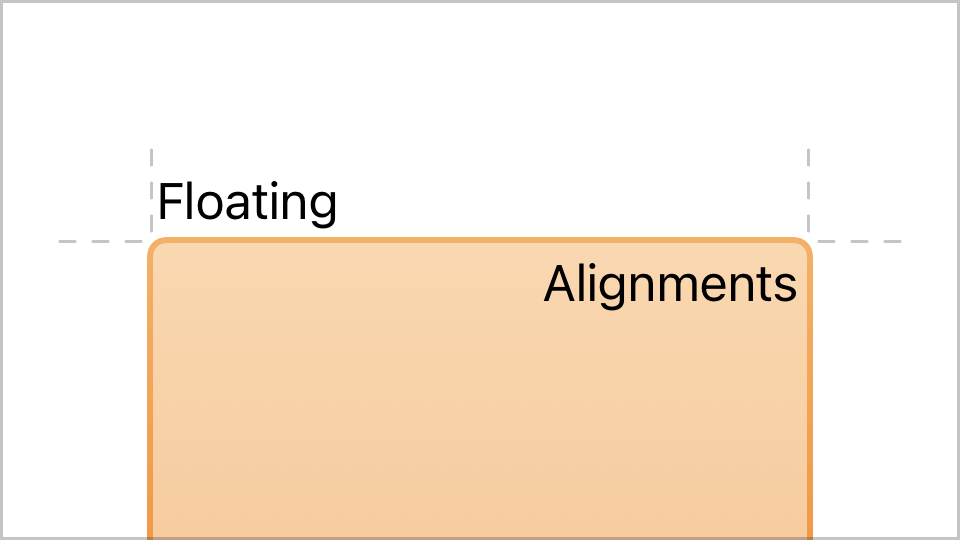
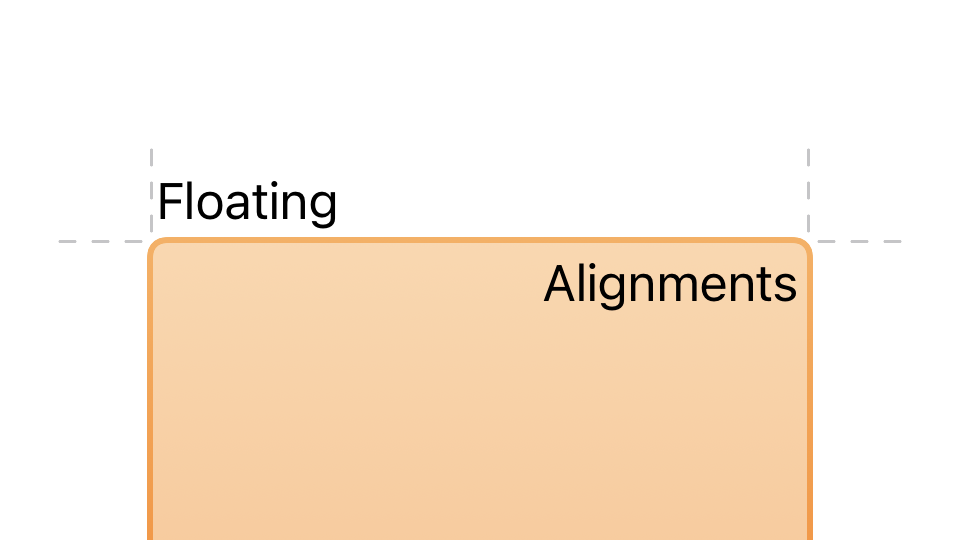
remove borders from debug-overlay-card and floating-alignment-card

Changed region(s): [[0.0, 0.9778, 1.0, 1.0], [0.0, 0.0, 1.0, 0.0296]]

diff --git a/sources/illustrations/FloatingAlignment+Illustrations.swift b/sources/illustrations/FloatingAlignment+Illustrations.swift
@@ -19,7 +19,7 @@ extension FloatingAlignment.Illustrations {
 
     /// Card illustration for <doc:debug-overlay>.
     static var card: DocumentationIllustration {
-        DocumentationIllustration(sizing: .card.half) {
+        DocumentationIllustration(sizing: .card.half, drawsBorder: false) {
             RoundedRectangle(cornerRadius: Defaults.padding / 3)
             .stroke(.orange.gradient, lineWidth: 2)
             .fill(.orange.gradient.secondary)

diff --git a/sources/illustrations/DebugOverlayModifier+Illustrations.swift b/sources/illustrations/DebugOverlayModifier+Illustrations.swift
@@ -19,7 +19,7 @@ extension DebugOverlayModifier.Illustrations {
 
     /// Card illustration for <doc:debug-overlay>.
     static var card: DocumentationIllustration {
-        DocumentationIllustration(sizing: .card.half, alignment: .topLeading) {
+        DocumentationIllustration(sizing: .card.half, alignment: .topLeading, drawsBorder: false) {
             Capsule()
             .fill(.gray.gradient.secondary)
             .frame(width: 320, height: 180)
